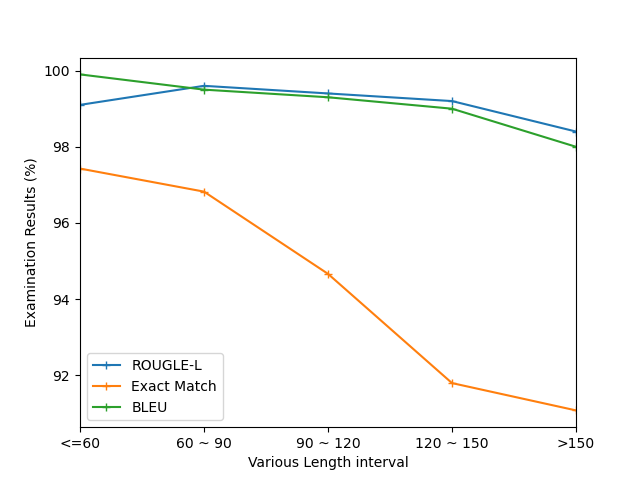
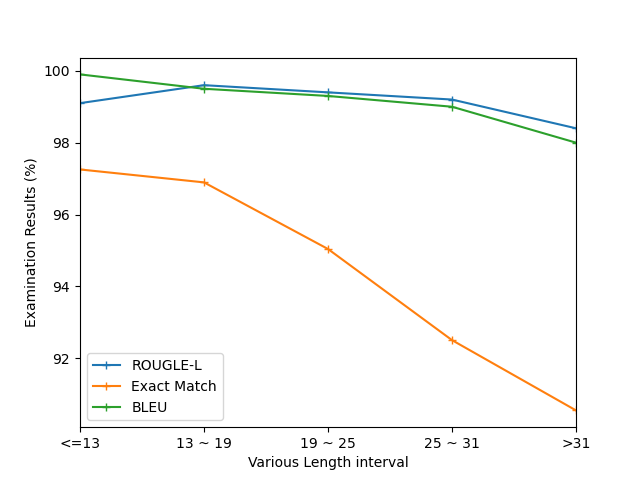
FIX LEN

diff --git a/plotGraph.py b/plotGraph.py
@@ -12,7 +12,7 @@ def multi_plot(rl, em, bleu,interval):
     # plt.bar(interval, bleu, 10, bottom=rl+em,color='#7BC8F6')
 
     # plt.suptitle('Evaluation with different intervals', fontsize = 15)
-    my_xticks = ['<=60','60 ~ 90','90 ~ 120','120 ~ 150','>150']
+    my_xticks = ['<=13','13 ~ 19','19 ~ 25','25 ~ 31','>31']
     plt.xticks(interval,my_xticks)
     # plt.ylim(88,100)
     plt.margins(x=0)
@@ -26,6 +26,8 @@ def multi_plot(rl, em, bleu,interval):
 
 # training ptb on T5-small with different interval
 
+# LENGTH COUNT WITH 60/90/120/150/500
+
 # rl = np.array([98.9402,99.7709,99.7482,99.7156,99.7076])
 # em = np.array([97.4285,96.8232,94.6650,91.7981,91.0813])
 # bleu = np.array([99.1753,99.3736,99.2894,99.1010,99.2825])
@@ -34,9 +36,18 @@ def multi_plot(rl, em, bleu,interval):
 # em = np.array([97.4285,96.8232,94.6650,91.7981,91.0813])
 # bleu = np.array([99.9,99.5,99.3,99,98])
 
-rl = np.array([99.0258,99.7856,99.7777,99.7191,99.6931])
-em = np.array([97.2543,96.8944,95.0403,92.5037,90.5479])
-bleu = np.array([98.9888,99.4067,99.3488,99.1931,99.2604])
+
+# FIX LENGTH COUNT WITH 13/19/25/31/80
+
+# rl = np.array([99.0258,99.7856,99.7777,99.7191,99.6931])
+# em = np.array([97.2543,96.8944,95.0403,92.5037,90.5479])
+# bleu = np.array([98.9888,99.4067,99.3488,99.1931,99.2604])
+
+
+# rl = np.array([99.1,99.6,99.4,99.2,98.4])
+# em = np.array([97.2543,96.8944,95.0403,92.5037,90.5479])
+# bleu = np.array([99.9,99.5,99.3,99,98])
+
 
 
 # training MNLI with different interval
@@ -49,7 +60,18 @@ bleu = np.array([98.9888,99.4067,99.3488,99.1931,99.2604])
 # em = [70.4285,51.5193,41.9354,33.1230,21.62764]
 # bleu = [93,91,89.9,89,88]
 
-interval = [60,90,120,150,180]
+# FIX LENGTH COUNT WITH 13/19/25/31/80
+
+# rl = np.array([94.6875,96.8073,96.4384,96.4581,96.2458])
+# em = np.array([69.6531,52.1739,39.1003,30.7346,18.7671])
+# bleu = np.array([89.4904,89.7634,89.4862,89.5968,88.9716])
+
+rl = [94.1,97.5,97,96.4,95]
+em = [69.6531,52.1739,39.1003,30.7346,18.7671]
+bleu = [93,91,89.9,89,88]
+
+
+interval = [13,19,25,31,37]
 
 # varing training size to evaluate MNLI
 # rl = [96.66,96.4118,96.2217,95.7589,95.2565,94.717,94.1502,93.6448,92.53,91.1125]
